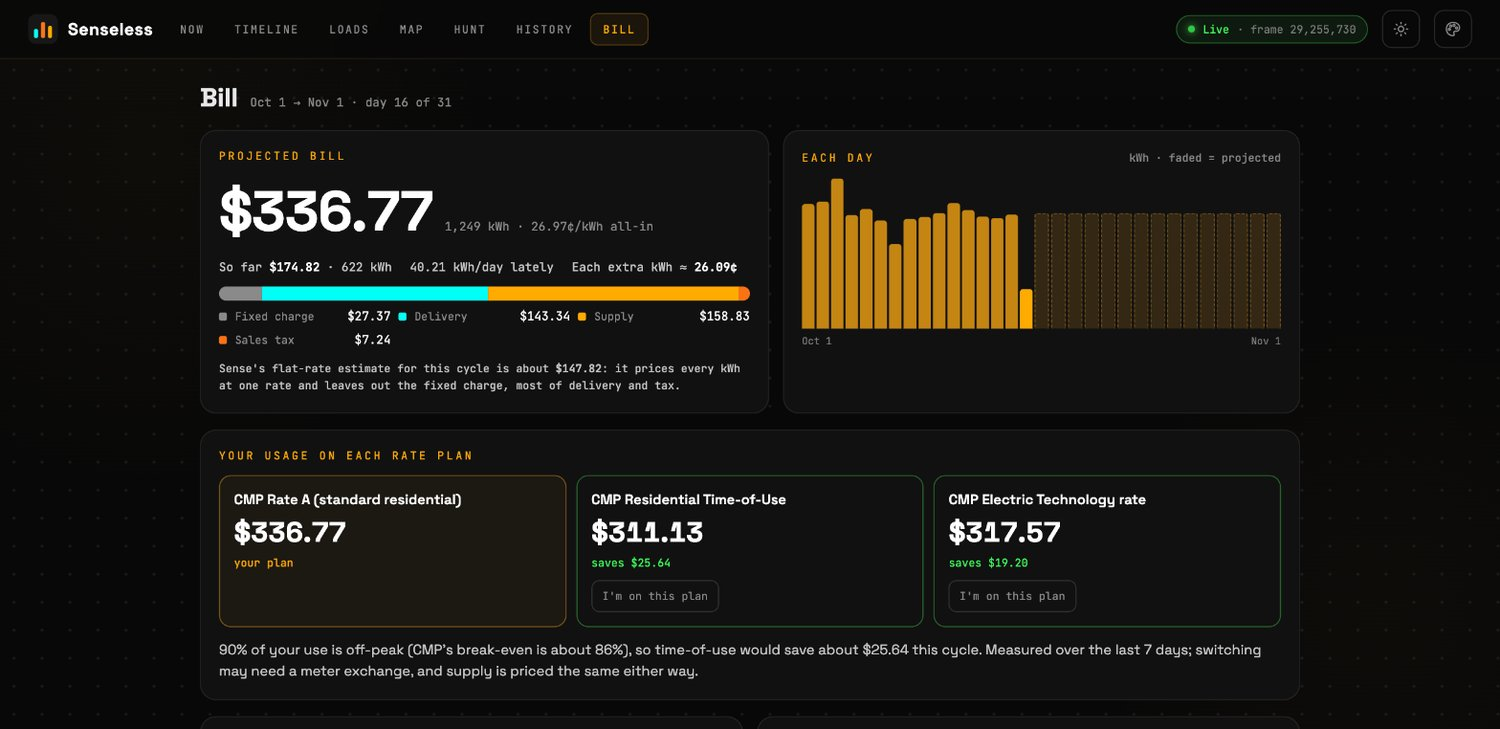
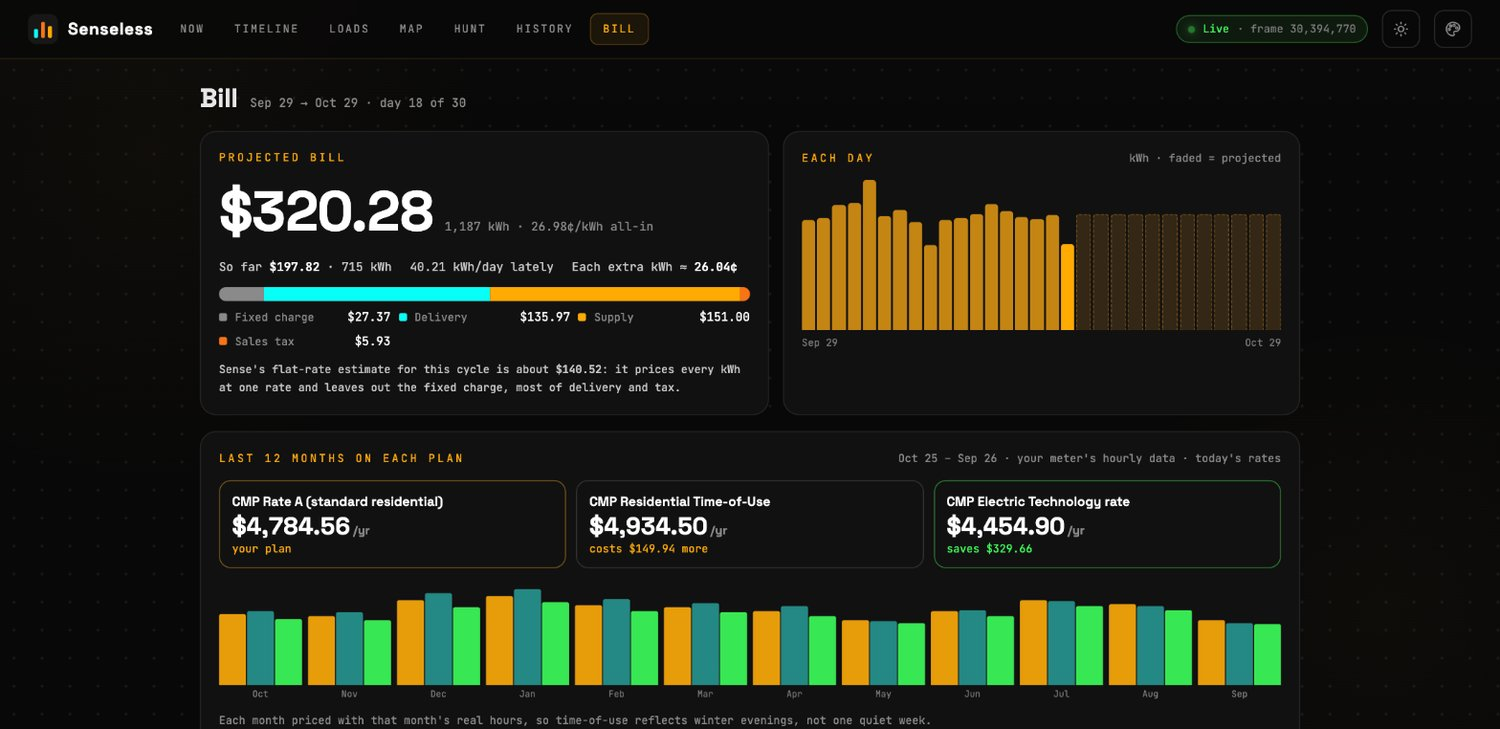
README: current features, docs, roadmap; refreshed Loads and Bill screenshots (#23)
Claude-Session: https://claude.ai/code/session_01EKF1WgjTu2rvhk3v7fLiJ8

diff --git a/README.md b/README.md
@@ -1,7 +1,7 @@
 <!-- HERO IMAGE: docs/hero.png (pending) -->
 # Senseless
 
-A local-first companion for the Sense home energy monitor, for hardware hackers and AI hobbyists who already own one. Sense's consumer app has stalled, but the monitor is still a great sensor. Senseless puts its data and load detection in your hands: collect the feed into SQLite, inspect power changes on each leg, name recurring loads, and build your own tools on top. Storage, detection, and the web UI run on your machine. The live feed and historical backfill still use Sense's cloud; this is not yet a cloud-independent replacement.
+A local-first companion for the Sense home energy monitor, for hardware hackers and AI hobbyists who already own one. Sense's consumer app has stalled, but the monitor is still a great sensor. Senseless puts its data and load detection in your hands: collect the feed into SQLite, inspect power changes on each leg, name recurring loads, and build your own tools on top. Storage, detection, and the web UI run on your machine. It also prices your usage the way your utility actually bills it, imports your utility's bills and meter data to check itself, and maps every device onto a plan of your property. The live feed and historical backfill still use Sense's cloud; this is not yet a cloud-independent replacement.
 
 ## What it does
 
@@ -21,8 +21,8 @@ The local detector pairs on/off steps into runs and groups recurring patterns by
 
 When runs line up with Sense's own device turn-ons, **Sense naming hints** offer a one-tap suggestion. These are correlations for you to confirm, not verified labels. Detection recomputes every minute over the last 48 hours. It uses rules, not a trained AI model; the stored data is there for your own experiments.
 
-![Loads view with unnamed patterns and named loads](docs/screenshots/loads.jpg)
-*Review recurring patterns, accept a hint, or give a load your own name.*
+![Loads view with a named washer cycle, the inbox, and named loads](docs/screenshots/loads.jpg)
+*A washer program detected as one cycle, the inbox of patterns to name, and named loads.*
 
 ### Timeline
 
@@ -228,19 +228,32 @@ Metrics include feed health and age, total and per-leg watts, voltage, frequency
 - [Notes index](notes/README.md): protocol and research entry point.
 - [Realtime feed](notes/realtime-feed.md): message types, per-leg data, deltas, and frame timing.
 - [Load detection](notes/detection.md): rules, naming hints, worked microwave example, and limits.
-- [Senseless HTTP API](notes/senseless-api.md): JSON routes, SSE, settings, and write checks.
-- [Floor plans](notes/floorplan-spec.md): Map view design decisions, data model, API, and upload security.
+- [Senseless HTTP API](notes/senseless-api.md): JSON routes, SSE, settings, and write checks. `GET /api` lists every endpoint, so a script or a voice assistant can find its way around (Device Hunt is built to be driven by voice).
+- [Floor plans](notes/floorplan-spec.md) and [property map](notes/property-spec.md): buildings, floors, rooms, markers, API, and upload security.
+- [Utilities and tariffs](notes/energy-providers.md): importers (Green Button, Smart Meter Texas, CSV mappings, bill plugins), tariff packs, and how to add yours.
+- [Appliance cycles](notes/cycles.md): how washer- and dishwasher-style programs are detected as one event.
 - [Sense cloud API](notes/api.md): authentication and endpoint inventory.
 - [Findings](notes/findings.md) and [methodology](notes/methodology.md): hardware observations and how to reproduce the research.
 - [Open questions](notes/open-questions.md) and [changelog](CHANGELOG.md): remaining work and shipped features.
 
 ## Roadmap
 
-The next detection work is closing runs with multi-step offs and improving matches when one appliance produces several patterns. Other open directions are decomposing Always On and Other, validating against smart plugs or circuit CTs, and investigating finer history, feed limits, and unexplained protocol fields. Longer term: understand the monitor's LAN behavior and whether collection can survive without Sense's cloud. These are research questions, not promised features.
+In progress: **motor loads.** Pumps and compressors draw a start-up surge, so their switch-on looks bigger than their switch-off and the two never pair. Sizing a run by the power it settles at, and letting one switch-off close two loads on the same timer (a pool pump and its salt cell), turns them into real runs with runtime and cost.
+
+Next, roughly in order:
+
+- More utilities: Texas plans from their Electricity Facts Label (energy charge, base charge, TDU delivery, usage credits), tariff import from OpenEI's Utility Rate Database, and community tariff packs.
+- Verify the Smart Meter Texas and Green Button CSV importers against real exports (they follow the published formats; samples welcome).
+- Better identification: one appliance that shows up as several patterns, decomposing Always On and Other, and checking against smart plugs or circuit CTs.
+- Research: finer history, feed limits, unexplained protocol fields, and whether the monitor's LAN behaviour allows collection without Sense's cloud.
+
+These are directions, not promises.
 
 ## Contributing
 
-Labeled captures are the most useful contribution. Run a known appliance at a recorded time, note its mode and duration, and include the startup and shutdown. Small loads, multi-stage appliances, and partial shutdowns are especially useful for testing detection. See [samples/](samples/) and the [microwave findings](notes/findings.md) for an example.
+**Tariff packs and importers** are the easiest way to make Senseless work where you live: a tariff pack is a small JSON file describing your utility's plans (see [Utilities and tariffs](notes/energy-providers.md)), and a real usage export from your utility (Smart Meter Texas, a Green Button file) with personal columns removed lets us verify or add an importer.
+
+Labeled captures are the other most useful contribution. Run a known appliance at a recorded time, note its mode and duration, and include the startup and shutdown. Small loads, multi-stage appliances, and partial shutdowns are especially useful for testing detection. See [samples/](samples/) and the [microwave findings](notes/findings.md) for an example.
 
 Sanitize first, inspect the output, and search for real account identifiers before sharing. Report whether a finding is verified against traffic or inferred from client behavior. Keep decompiled Sense source out of this repo; describe observed behavior in notes instead.
 

diff --git a/notes/README.md b/notes/README.md
@@ -11,6 +11,7 @@ What we know about the Sense energy monitor's software interfaces, written for b
 | [energy-providers.md](energy-providers.md) | Migration/compatibility notes and contributing an importer or tariff pack |
 | [billing-import-spec.md](billing-import-spec.md) | CMP PDF/hourly meter CSV import contract, privacy rules, billing insights and cycle adjustments |
 | [detection.md](detection.md) | Load detection: steps, runs, persistent patterns, naming hints and limits |
+| [property-spec.md](property-spec.md) | Property map: buildings, floors with levels, site plan, API |
 | [cycles.md](cycles.md) | Program activity cycles: detection rules, persistent cycle patterns, replay results and limits |
 | [findings.md](findings.md) | Dated observations from real hardware, incl. a labeled microwave signature |
 | [methodology.md](methodology.md) | How it was reverse-engineered, so you can redo it on a new app version |
